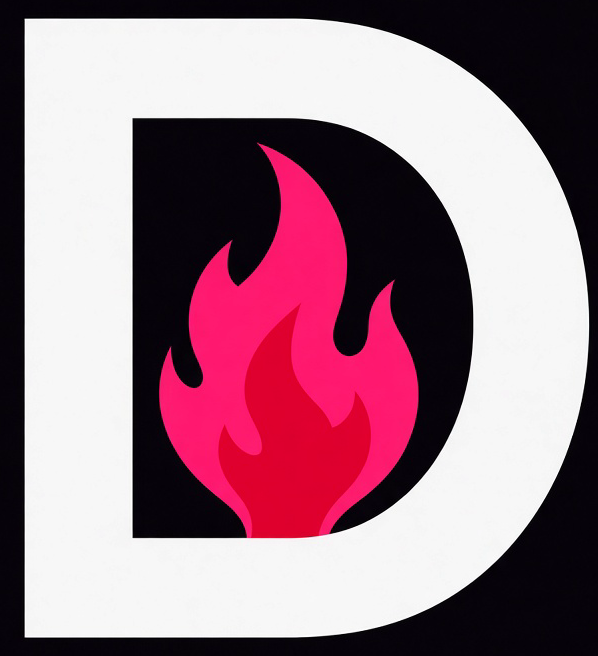
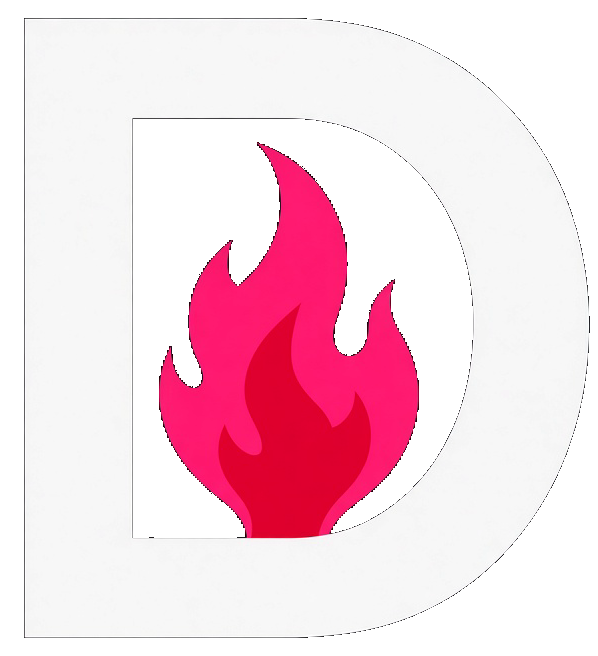
Let the home wallpaper show through the D and the four hubs.
The flaming D no longer sits on a black square. Hub tiles are tinted
glass so the paper reads behind them, and Connect / Desire / Fun /
Home Base use the same backdrop.

diff --git a/app/(tabs)/index.tsx b/app/(tabs)/index.tsx
@@ -1,3 +1,4 @@
+import { HomeBackdrop } from "@/components/home/HomeBackdrop";
 import { HomeNotificationsBell } from "@/components/home/HomeNotificationsBell";
 import { DuomaLogo } from "@/components/DuomaLogo";
 import { Screen } from "@/components/ui/Screen";
@@ -14,7 +15,6 @@ import {
   type HubAppOption,
 } from "@/lib/home-favorites";
 import {
-  HOME_WALLPAPERS,
   loadHomeWallpaper,
   nextHomeWallpaper,
   saveHomeWallpaper,
@@ -26,7 +26,6 @@ import { Ionicons } from "@expo/vector-icons";
 import { useRouter, type Href } from "expo-router";
 import { useEffect, useMemo, useState } from "react";
 import {
-  Image,
   Modal,
   Pressable,
   ScrollView,
@@ -48,7 +47,6 @@ export default function HomeScreen() {
   );
   const [pickerSlot, setPickerSlot] = useState<number | null>(null);
   const [wallpaperId, setWallpaperId] = useState<HomeWallpaperId>("black");
-  const wallpaper = HOME_WALLPAPERS[wallpaperId];
 
   // Screen horizontal padding (~20) + gap between tiles.
   const tileWidth = Math.max(140, (width - 40 - 12) / 2);
@@ -127,33 +125,7 @@ export default function HomeScreen() {
   };
 
   return (
-    <View style={{ flex: 1, backgroundColor: "#0B0B0E" }}>
-      {wallpaper.source ? (
-        <Image
-          source={wallpaper.source}
-          style={{
-            position: "absolute",
-            top: 0,
-            right: 0,
-            bottom: 0,
-            left: 0,
-          }}
-          resizeMode="cover"
-        />
-      ) : null}
-      {wallpaper.source ? (
-        <View
-          pointerEvents="none"
-          style={{
-            position: "absolute",
-            top: 0,
-            right: 0,
-            bottom: 0,
-            left: 0,
-            backgroundColor: wallpaper.scrim,
-          }}
-        />
-      ) : null}
+    <HomeBackdrop wallpaperId={wallpaperId}>
     <Screen scroll background="transparent">
       <View className="pt-1 pb-10">
         <View
@@ -214,7 +186,9 @@ export default function HomeScreen() {
                 borderRadius: 18,
                 paddingVertical: 12,
                 paddingHorizontal: 10,
-                backgroundColor: hub.tile,
+                backgroundColor: `${hub.tile}3D`,
+                borderWidth: 1.5,
+                borderColor: hub.accent,
                 alignItems: "center",
                 justifyContent: "center",
                 gap: 8,
@@ -225,12 +199,12 @@ export default function HomeScreen() {
                   width: 48,
                   height: 48,
                   borderRadius: 14,
-                  backgroundColor: "rgba(255,255,255,0.22)",
+                  backgroundColor: `${hub.tile}55`,
                   alignItems: "center",
                   justifyContent: "center",
                 }}
               >
-                <Ionicons name={hub.icon} size={28} color={hub.tileInk} />
+                <Ionicons name={hub.icon} size={28} color="#F4F4F6" />
               </View>
               <View style={{ width: "100%", alignItems: "center" }}>
                 <Text
@@ -238,7 +212,7 @@ export default function HomeScreen() {
                     fontFamily: SERIF,
                     fontSize: 18,
                     lineHeight: 22,
-                    color: hub.tileInk,
+                    color: "#F4F4F6",
                     textAlign: "center",
                   }}
                 >
@@ -247,8 +221,7 @@ export default function HomeScreen() {
                 <Text
                   style={{
                     marginTop: 2,
-                    color: hub.tileInk,
-                    opacity: 0.72,
+                    color: "rgba(244,244,246,0.78)",
                     fontSize: 11,
                     lineHeight: 14,
                     textAlign: "center",
@@ -631,6 +604,6 @@ export default function HomeScreen() {
       >
         <Ionicons name="refresh" size={20} color="#F4F4F6" />
       </Pressable>
-    </View>
+    </HomeBackdrop>
   );
 }

diff --git a/components/hub/HubDirectory.tsx b/components/hub/HubDirectory.tsx
@@ -1,3 +1,4 @@
+import { HomeBackdrop } from "@/components/home/HomeBackdrop";
 import { BackButton } from "@/components/ui/BackButton";
 import { Screen } from "@/components/ui/Screen";
 import { SERIF } from "@/lib/app-themes";
@@ -19,9 +20,11 @@ export function HubDirectory({ hubId }: { hubId: HubId }) {
 
   if (!hub) {
     return (
-      <Screen>
-        <Text className="text-mist">Hub not found.</Text>
-      </Screen>
+      <HomeBackdrop>
+        <Screen background="transparent">
+          <Text className="text-mist">Hub not found.</Text>
+        </Screen>
+      </HomeBackdrop>
     );
   }
 
@@ -49,7 +52,8 @@ export function HubDirectory({ hubId }: { hubId: HubId }) {
   };
 
   return (
-    <Screen scroll background="#0B0B0E">
+    <HomeBackdrop>
+    <Screen scroll background="transparent">
       <View className="pt-4 pb-10">
         <BackButton
           color={hub.accent}
@@ -152,9 +156,9 @@ export function HubDirectory({ hubId }: { hubId: HubId }) {
                 paddingVertical: 14,
                 paddingHorizontal: 14,
                 borderRadius: 18,
-                backgroundColor: "#14141A",
+                backgroundColor: "rgba(20,20,26,0.55)",
                 borderWidth: 1,
-                borderColor: "rgba(255,255,255,0.08)",
+                borderColor: "rgba(255,255,255,0.14)",
               }}
             >
               <View
@@ -200,5 +204,6 @@ export function HubDirectory({ hubId }: { hubId: HubId }) {
         </View>
       </View>
     </Screen>
+    </HomeBackdrop>
   );
 }

diff --git a/components/home/HomeBackdrop.tsx b/components/home/HomeBackdrop.tsx
@@ -1,0 +1,62 @@
+import {
+  HOME_WALLPAPERS,
+  loadHomeWallpaper,
+  type HomeWallpaperId,
+} from "@/lib/home-wallpaper";
+import { type ReactNode, useEffect, useState } from "react";
+import { Image, View } from "react-native";
+
+export function HomeBackdrop({
+  children,
+  wallpaperId,
+}: {
+  children: ReactNode;
+  wallpaperId?: HomeWallpaperId;
+}) {
+  const [stored, setStored] = useState<HomeWallpaperId>("black");
+
+  useEffect(() => {
+    if (wallpaperId) return;
+    let alive = true;
+    void loadHomeWallpaper().then((id) => {
+      if (alive) setStored(id);
+    });
+    return () => {
+      alive = false;
+    };
+  }, [wallpaperId]);
+
+  const paper = HOME_WALLPAPERS[wallpaperId ?? stored];
+
+  return (
+    <View style={{ flex: 1, backgroundColor: "#0B0B0E" }}>
+      {paper.source ? (
+        <Image
+          source={paper.source}
+          style={{
+            position: "absolute",
+            top: 0,
+            right: 0,
+            bottom: 0,
+            left: 0,
+          }}
+          resizeMode="cover"
+        />
+      ) : null}
+      {paper.source ? (
+        <View
+          pointerEvents="none"
+          style={{
+            position: "absolute",
+            top: 0,
+            right: 0,
+            bottom: 0,
+            left: 0,
+            backgroundColor: paper.scrim,
+          }}
+        />
+      ) : null}
+      {children}
+    </View>
+  );
+}
